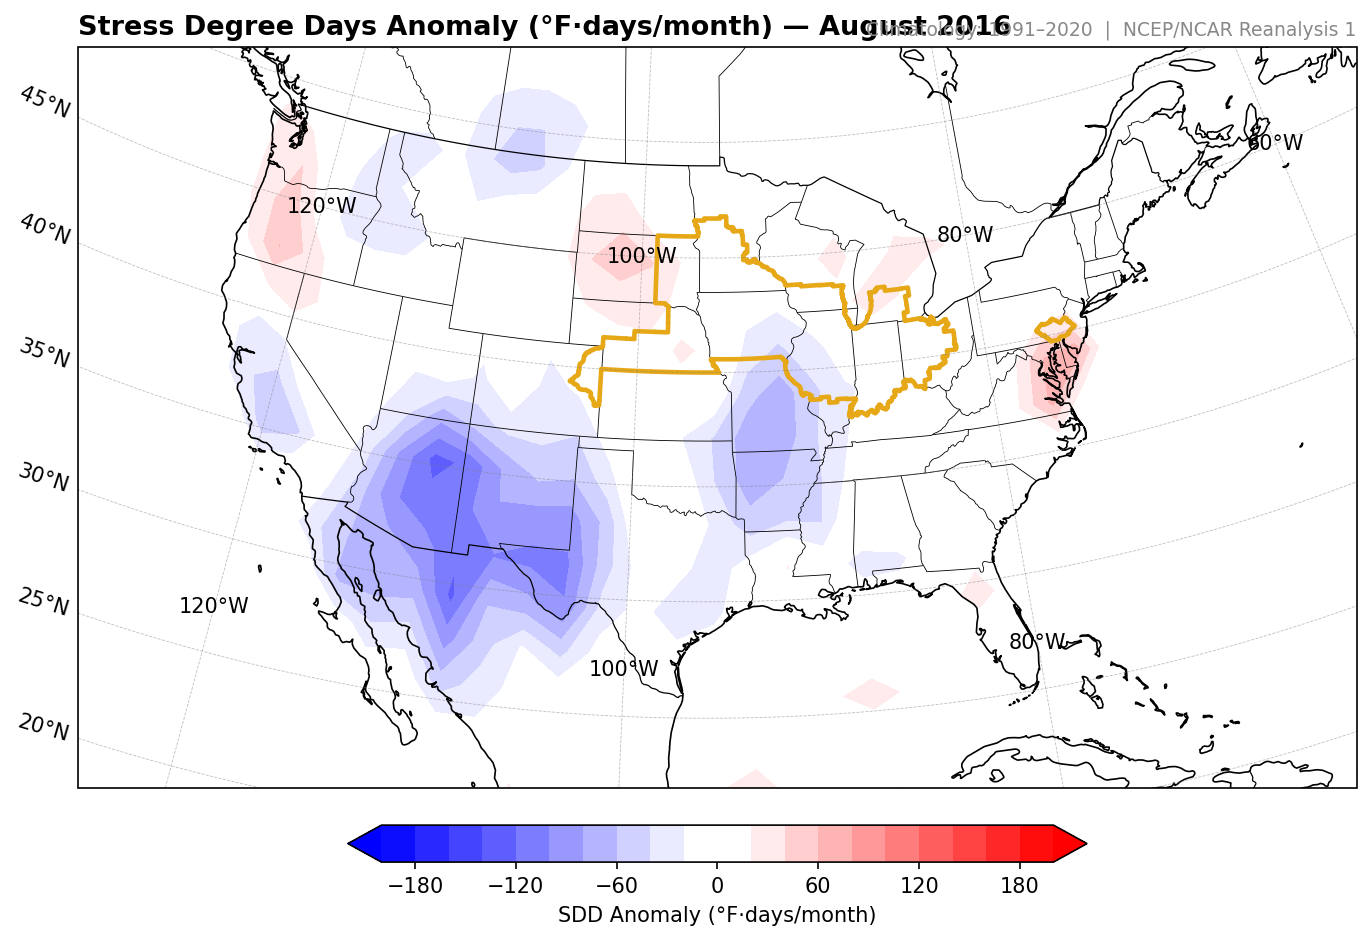
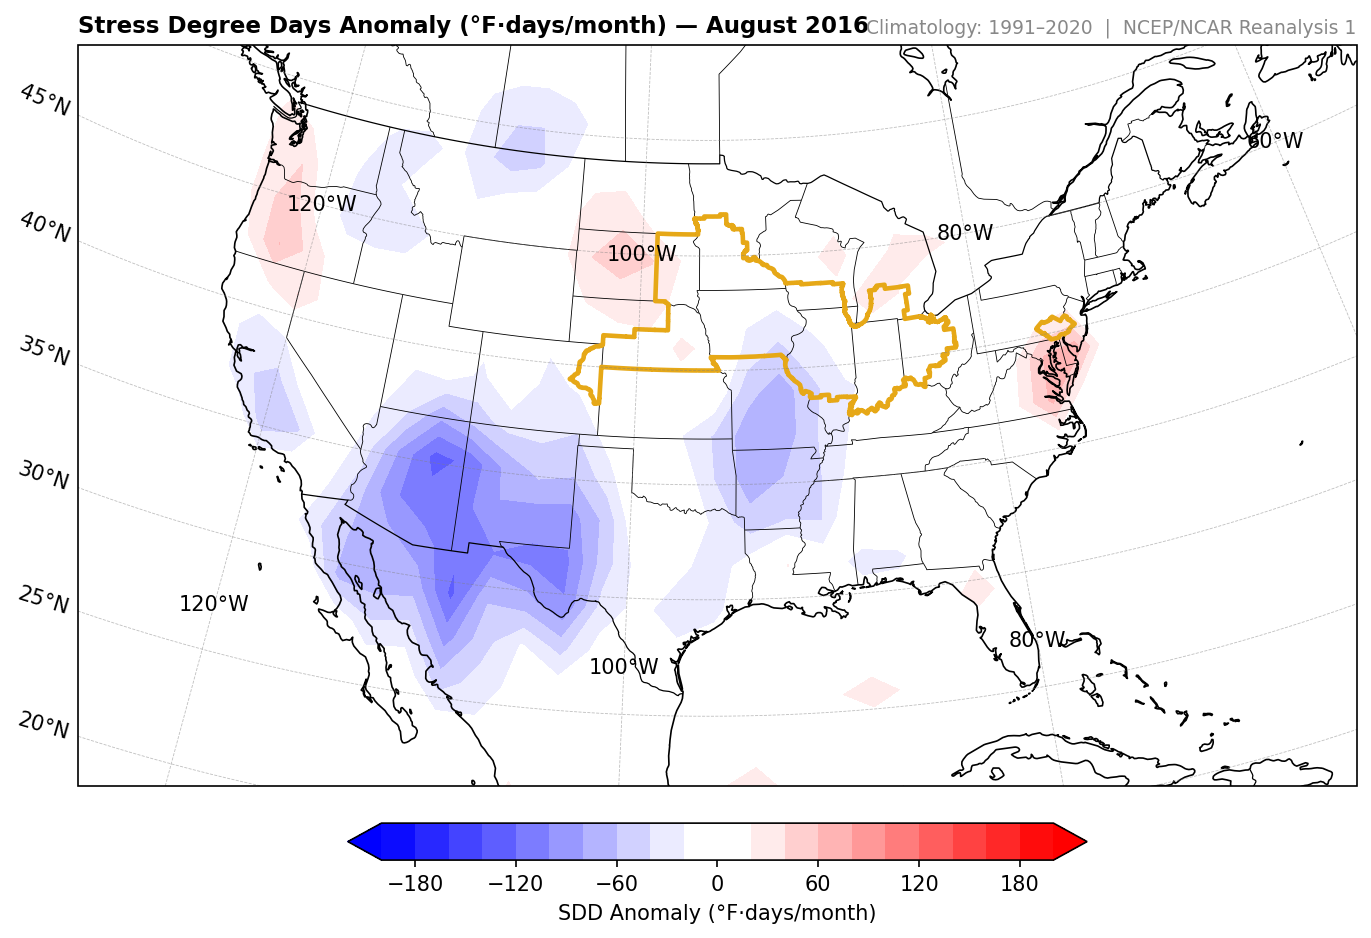
Fix for long titles overlapping

diff --git a/plot_anomalies.py b/plot_anomalies.py
@@ -63,7 +63,8 @@ def prep_data(da):
 
 
 def add_titles(ax, title_left):
-    ax.set_title(title_left, loc="left", fontsize=13, fontweight="bold")
+    fontsize = 11 if len(title_left) > 48 else 13
+    ax.set_title(title_left, loc="left", fontsize=fontsize, fontweight="bold")
     ax.set_title(CLIM_STR,   loc="right", fontsize=9,  color="#888888")
 
 
